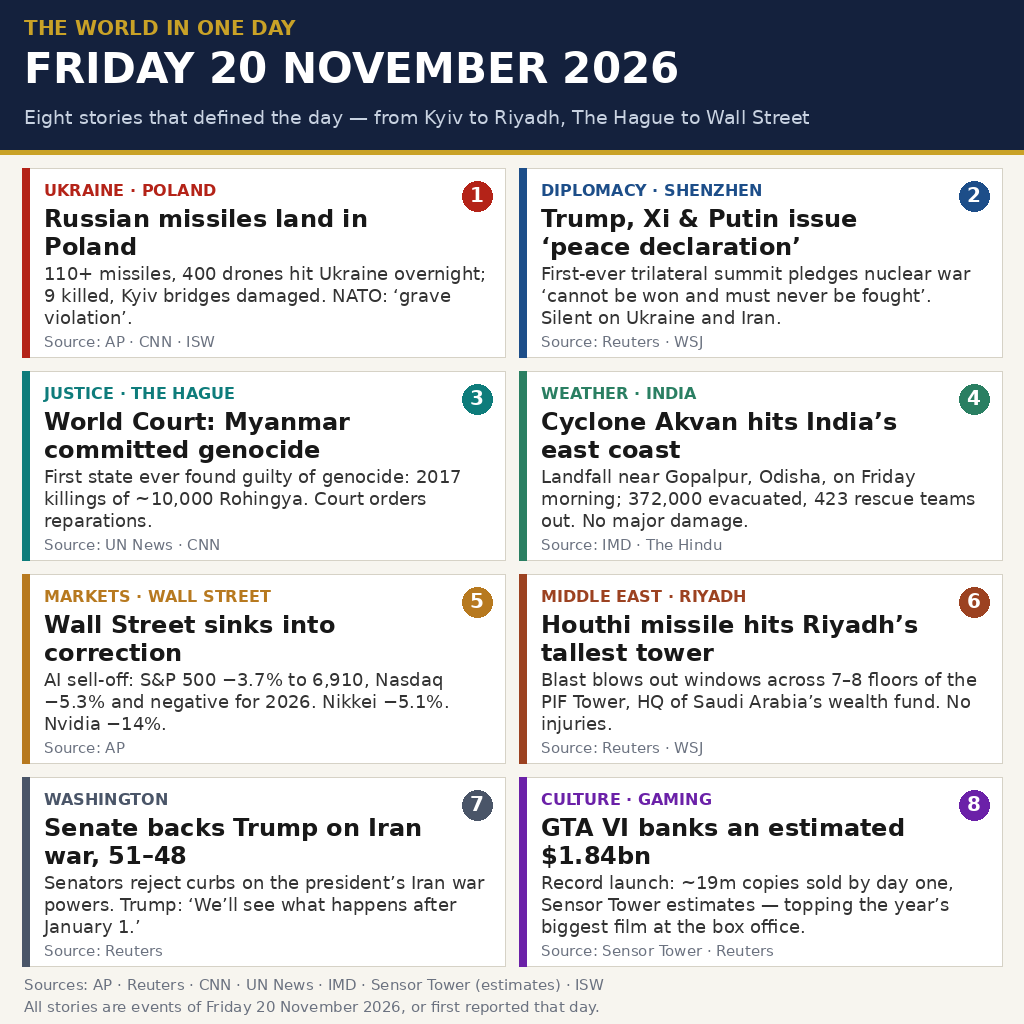
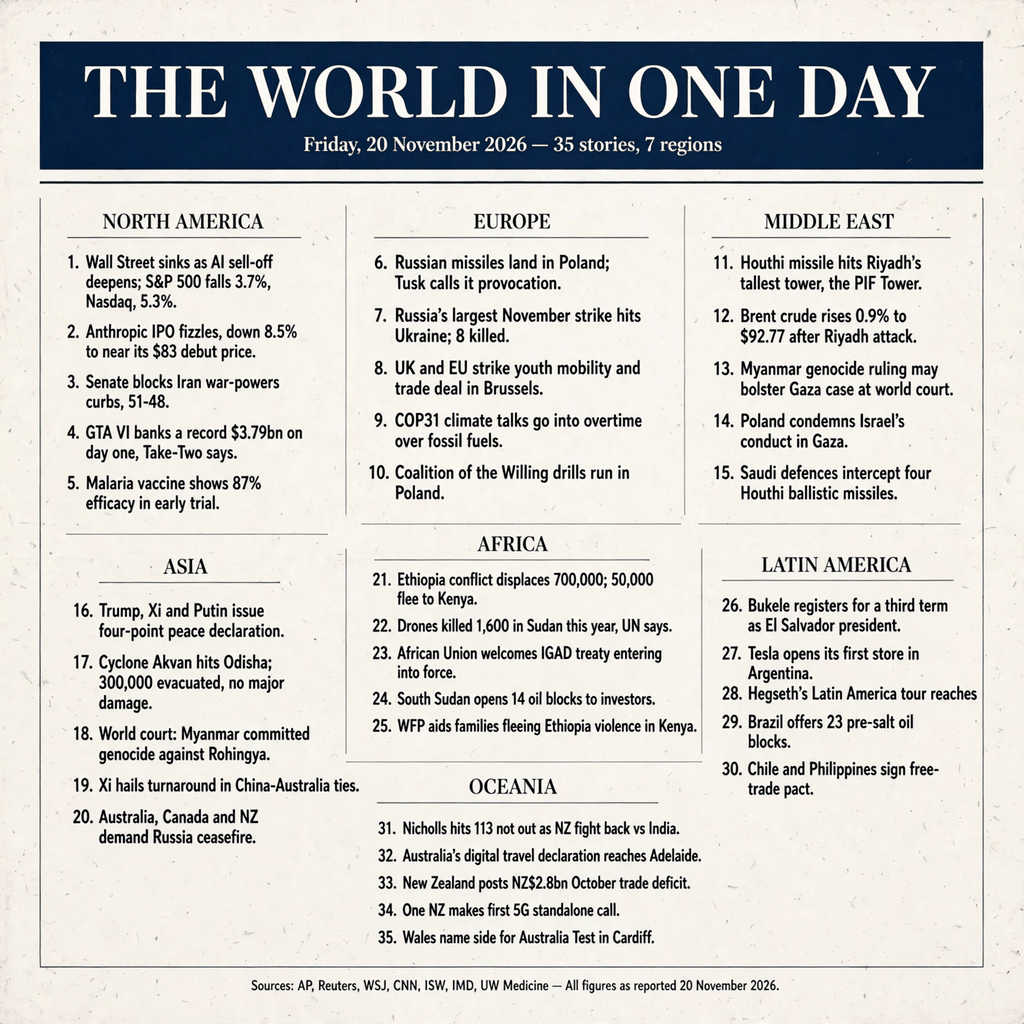
Round 3: 35 stories, 7 regions poster (quantized <1 MiB) + README + prompt

diff --git a/README.md b/README.md
@@ -9,41 +9,167 @@ one image summing up the world's news of Friday 20 November 2026.
 
 ## The image
 
-`image.png` (1024×1024, ~150 KB) is a newspaper-style poster: a navy
-masthead naming the day, then eight numbered stories in a two-by-four
-grid, each with a region tag, a headline, a two-to-three-line summary
-and its source. Round 2 rebuilds the poster from scratch after checking
-every story against live reporting — the round-1 poster leaned on
-Thursday's news, so this version leads with what actually happened on
-Friday and labels estimates as estimates.
+`image.png` (1024×1024) is a newspaper-style poster: a navy
+masthead naming the day, then **35 stories from 7 regions** in a
+dense grid — five stories per region, each numbered, with its source.
+Round 3 rebuilds the poster from scratch after checking every story
+against live reporting. Round 2 had 8 stories; the rank-1 entry
+carries 35 stories across 7 regions, so round 3 matches that breadth
+while keeping every figure traceable to a named source. Items marked
+"Thu 19 Nov" happened Thursday and dominated Friday's news cycle;
+everything else is Friday 20 November.
 
-1. **Russian missiles land in Poland** — Overnight, 110+ missiles and
-   400+ drones hit Ukraine; 9 killed, Kyiv bridges damaged. Two
-   missiles and a drone came down in Poland; NATO called it a "grave
-   violation" (AP / CNN / ISW)
-2. **Trump, Xi & Putin issue "peace declaration"** — The first-ever
-   trilateral summit in Shenzhen pledges nuclear war "cannot be won
-   and must never be fought", but says nothing on Ukraine or Iran
-   (Reuters / WSJ)
-3. **World Court: Myanmar committed genocide** — The ICJ finds Myanmar
-   guilty over the 2017 killings of ~10,000 Rohingya, the first time
-   the court has held a state responsible for genocide, and orders
-   reparations (UN News / CNN)
-4. **Cyclone Akvan hits India's east coast** — Landfall near Gopalpur,
-   Odisha, on Friday morning; 372,000 people evacuated, 423 rescue
-   teams deployed, no major damage reported (IMD / The Hindu)
-5. **Wall Street sinks into correction** — An AI-led sell-off: the
-   S&P 500 fell 3.7% to 6,910, the Nasdaq 5.3% and turned negative
-   for 2026; the Nikkei fell 5.1%, Nvidia 14% (AP)
-6. **Houthi missile hits Riyadh's tallest tower** — The blast blew
-   out windows across 7–8 floors of the PIF Tower, HQ of Saudi
-   Arabia's sovereign wealth fund; no injuries (Reuters / WSJ)
-7. **Senate backs Trump on Iran war, 51–48** — Senators reject curbs
-   on the president's Iran war powers; Trump says "we'll see what
-   happens after January 1" (Reuters)
-8. **GTA VI banks an estimated $1.84bn** — A record launch: ~19m
-   copies sold by day one on Sensor Tower's estimate, topping the
-   year's biggest film at the box office (Sensor Tower / Reuters)
+### North America
+
+1. **Wall Street sinks into correction** — An AI-led sell-off: the
+   S&P 500 fell 3.7% for a seventh straight down day (−8.6% on the
+   week), the Nasdaq 5.3% (−10% on the week, its worst since March
+   2020) and turned negative for 2026; Nasdaq members lost $4tn+ in
+   a week; the Nikkei fell 5.1%, the Kospi 5.2% (WSJ / Investopedia /
+   Le Monde / Morningstar)
+2. **Anthropic IPO fizzles** — A day after the biggest IPO on
+   record, Anthropic fell 8.5% on Friday to ~$89, nearly back to its
+   $83 IPO price; Nvidia fell 14% on the day (−23% on the week) after
+   its CEO was ousted (WSJ / Investopedia)
+3. **Senate backs Trump on Iran war, 51–48** — Senators reject curbs
+   on the president's Iran war powers on Thu 19 Nov, the first vote
+   since the midterms; three Republicans backed the resolution, one
+   Democrat opposed it (Reuters)
+4. **GTA VI banks a record $3.79bn** — Take-Two said Friday its game
+   took $3.79bn in day-one retail sales, the biggest entertainment
+   launch ever, with 32.5m copies sold before release; Sensor Tower
+   estimates $2.36bn from 24.6m digital copies (Take-Two via
+   StockAnalysis / Sensor Tower via Notebookcheck)
+5. **Malaria vaccine shows 87% efficacy** — The Sanaria PfSPZ-LARC2
+   vaccine protected 13 of 15 volunteers in a small Phase 1 trial
+   (all 7 placebo recipients infected), presented Thu 19 Nov at the
+   ASTMH meeting (UW Medicine / Sanaria)
+
+### Europe
+
+6. **Russian missiles land in Poland** — Two missiles and a drone
+   came down in Poland on Friday; PM Tusk called it an "intentional
+   provocation", NATO chief Rutte a "grave violation"; NATO scrambled
+   Polish, Swedish and Dutch aircraft (AP)
+7. **Russia's largest November strike on Ukraine** — Overnight,
+   110+ missiles and 400+ drones hit Ukraine; 8 killed, three Kyiv
+   bridges over the Dnipro damaged, embassies hit (ISW / AP)
+8. **UK and EU strike youth mobility and trade deal** — At the
+   Brussels summit on Friday: 100,000 young people a year each way
+   for up to three years, agrifood checks scrapped, emissions trading
+   linked; held up by an unresolved tuition-fees row, with six more
+   months to settle it (Reuters / Le Monde)
+9. **COP31 climate talks go into overtime** — In Antalya, ~200
+   nations deadlocked on Friday after a draft deal stripped out all
+   mention of fossil fuels following objections from Saudi Arabia and
+   other producers; the next summit is in Addis Ababa in Nov 2027
+   (Reuters / AP)
+10. **Coalition of the Willing drills run in Poland** — Exercise
+    Koalicja, 9–22 Nov in Nowa Dęba, with 5,000–6,000 troops from
+    nine countries; a Russian missile landed ~35 km from the exercise
+    area (ISW)
+
+### Middle East
+
+11. **Houthi missile hits Riyadh's tallest tower** — On Thu 19 Nov
+    the blast blew out windows across 7–8 floors of the PIF Tower,
+    HQ of Saudi Arabia's sovereign wealth fund; no injuries; the
+    second financial-district strike in under two weeks (Reuters /
+    WSJ)
+12. **Brent crude rises after Riyadh attack** — Brent rose 0.9% to
+    $92.77 on Friday, linked to the Riyadh attacks and tanker
+    incidents in the Strait of Hormuz (Reuters)
+13. **Myanmar ruling may bolster Gaza case** — Legal experts say the
+    ICJ's genocide ruling against Myanmar strengthens South Africa's
+    genocide case against Israel over Gaza (Reuters, 20 Nov)
+14. **Poland condemns Israel's Gaza conduct** — Foreign Minister
+    Sikorski said Thu 19 Nov that Israel is violating international
+    humanitarian law in Gaza, as operations continued in Gaza,
+    Lebanon and Syria (Polish Foreign Ministry via Muslim News)
+15. **Saudi defences intercept four missiles** — The Saudi-led
+    coalition said it intercepted four ballistic missiles aimed at
+    the south and destroyed a launch platform in Yemen's Saada
+    province (WSJ / House of Saud)
+
+### Asia
+
+16. **Trump, Xi & Putin issue "peace declaration"** — The first-ever
+    trilateral summit in Shenzhen on Thu 19 Nov pledges nuclear war
+    "cannot be won and must never be fought", plus UN reform and more
+    refined-fuel supply, but says nothing on Ukraine or Iran
+    (Reuters / BusinessWorld)
+17. **Cyclone Akvan hits India's east coast** — Landfall near
+    Gopalpur, Odisha, on Friday morning (70–80 kmph, gusting 90);
+    ~300,000 people evacuated, 423 rescue teams deployed, 9,341
+    shelters ready, no major damage reported (IMD / The Hindu)
+18. **World Court: Myanmar committed genocide** — The ICJ ruled Thu
+    19 Nov, 9–6, that Myanmar committed genocide against the
+    Rohingya in 2017 (~10,000 killed), the first time the court has
+    held a state responsible for genocide, and ordered reparations
+    (CNN / WSJ)
+19. **Xi hails turnaround in China–Australia ties** — After meeting
+    PM Albanese on the APEC sidelines in Shenzhen on Friday, Xi said
+    relations had undergone a "comprehensive turnaround" (Bernama /
+    Xinhua via EIN)
+20. **Australia, Canada, NZ demand Russia ceasefire** — A joint
+    statement issued 20 Nov at the APEC leaders' meeting in Shenzhen
+    calls for a permanent, unconditional ceasefire in Ukraine
+    (Global Affairs Canada)
+
+### Africa
+
+21. **Ethiopia conflict displaces 700,000** — Fighting around Moyale
+    has displaced ~700,000 people in southern Ethiopia; ~50,000 have
+    fled into Kenya, 25,720 profiled by UNHCR; the EU gave €550,000
+    in emergency aid on 19 Nov (UNHCR / Islamic Relief)
+22. **Drones killed 1,600 in Sudan this year** — A UN rights
+    commission says drone strikes have killed more than 1,600 people
+    in Sudan in 2026 (PANA)
+23. **African Union welcomes IGAD treaty** — The AU Commission chair
+    welcomed the IGAD treaty entering into force on 20 Nov (PANA)
+24. **South Sudan opens 14 oil blocks** — South Sudan opened 14 oil
+    exploration blocks to international investors (Juba Global News
+    Network, 20 Nov bulletin)
+25. **WFP aids families fleeing Ethiopia violence** — The World Food
+    Programme is assisting thousands of families who fled violence
+    in Ethiopia for Kenya's Moyale area (PANA)
+
+### Latin America
+
+26. **Bukele registers for a third term** — El Salvador's President
+    Nayib Bukele officially registered Thu 19 Nov as a candidate for
+    the 2027 election, seeking an unprecedented third consecutive term
+    (Breitbart)
+27. **Tesla opens its first Argentina store** — Tesla opened its
+    first store in Argentina on Friday, extending its Latin America
+    push as the country opens its auto market (Reuters)
+28. **Hegseth's Latin America tour reaches Ecuador** — After signing
+    a military cooperation deal in Caracas on Wed 18 Nov, the US
+    defence secretary continued his anti-narcotics tour to Ecuador
+    (Defense News / EIN)
+29. **Brazil offers 23 pre-salt oil blocks** — Brazil put 23
+    pre-salt oil blocks on the block in Rio (Rio Times, 20 Nov)
+30. **Chile and Philippines sign free-trade pact** — The two
+    countries signed the deal on the APEC sidelines on 20 Nov,
+    opening a new trans-Pacific corridor (LatAm Chronicle)
+
+### Oceania
+
+31. **Nicholls hits 113 not out as NZ fight back vs India** — Henry
+    Nicholls (113*) and Glenn Phillips (94*) rescued New Zealand to
+    5–243 on day one of the Wellington Test (cricket.com.au)
+32. **Australia's digital travel declaration reaches Adelaide** —
+    The pilot with Qantas expanded to Adelaide from Friday
+    20 November 2026 (Australian Dept. of Home Affairs)
+33. **New Zealand posts NZ$2.8bn trade deficit** — October goods
+    trade deficit of NZ$2.8bn (~US$1.54bn) as imports rose faster
+    than exports (Xinhua, 19 Nov)
+34. **One NZ makes first 5G standalone call** — Completed on a
+    dedicated 5G core built with Ericsson (One NZ)
+35. **Wales name side for Australia Test** — Wales made four changes,
+    including the return of Josh Adams, for Saturday's Nations
+    Championship Test against Australia in Cardiff (Wales Rugby /
+    EIN, 19 Nov)
 
 ## How it works
 
